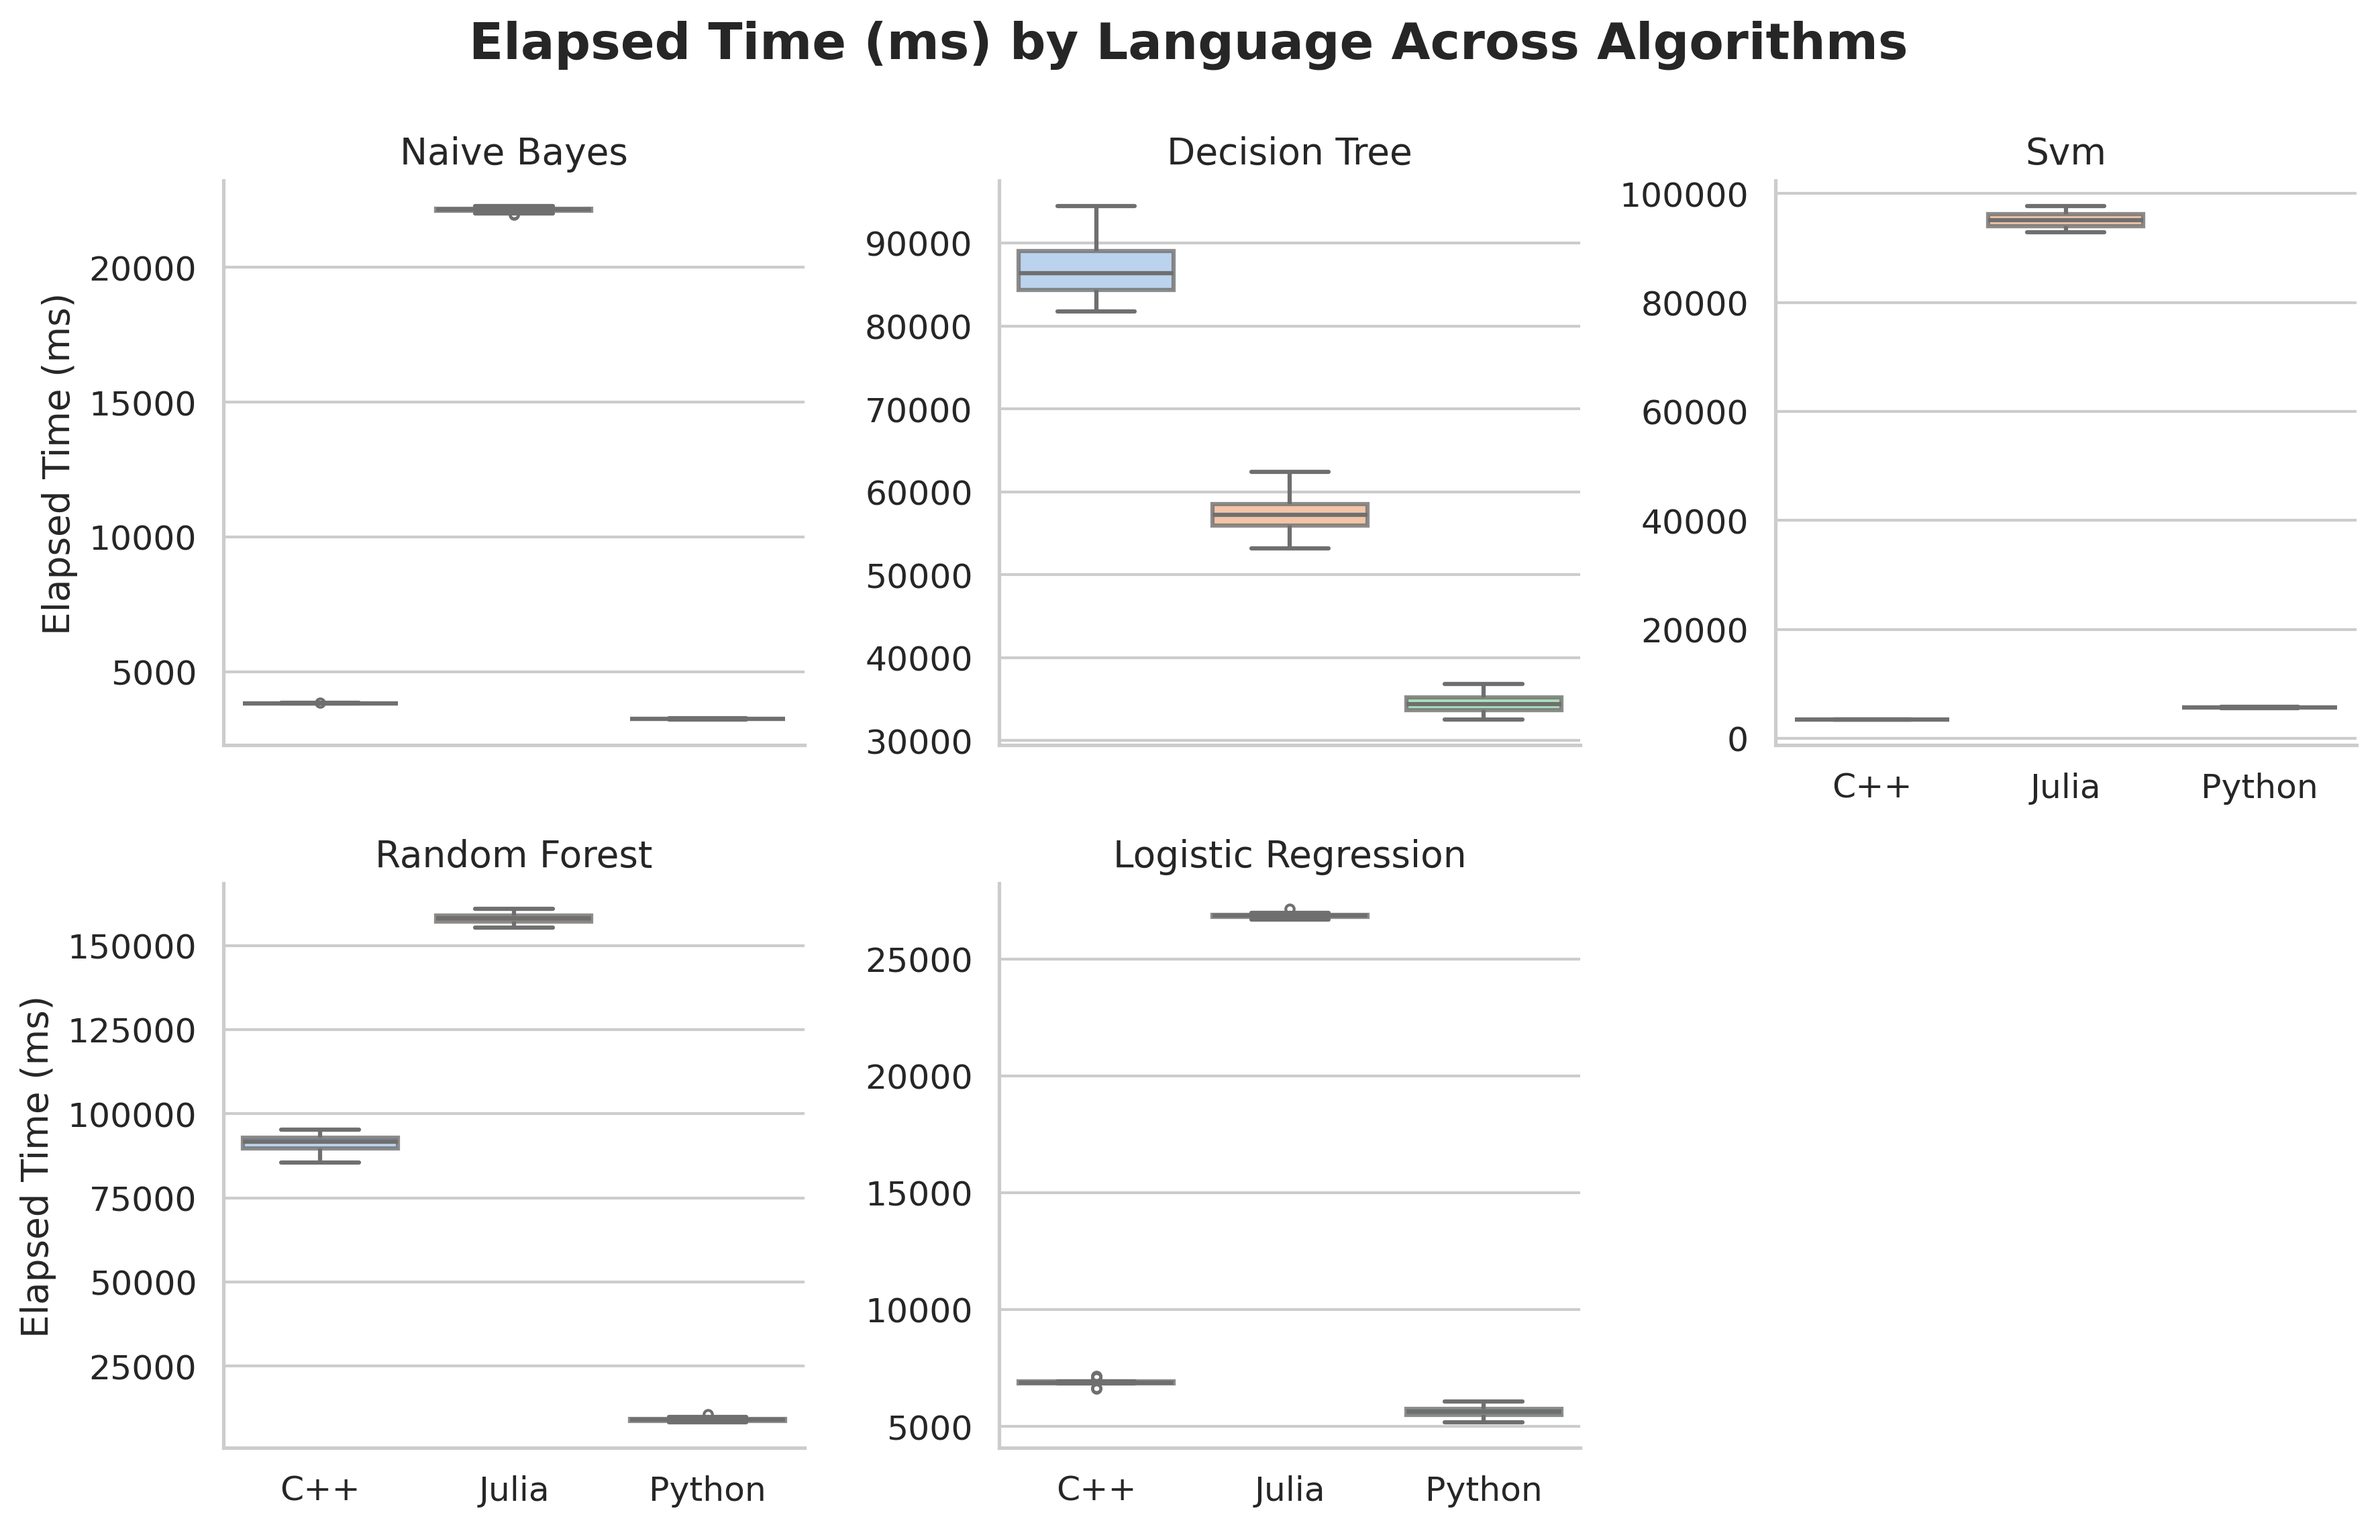
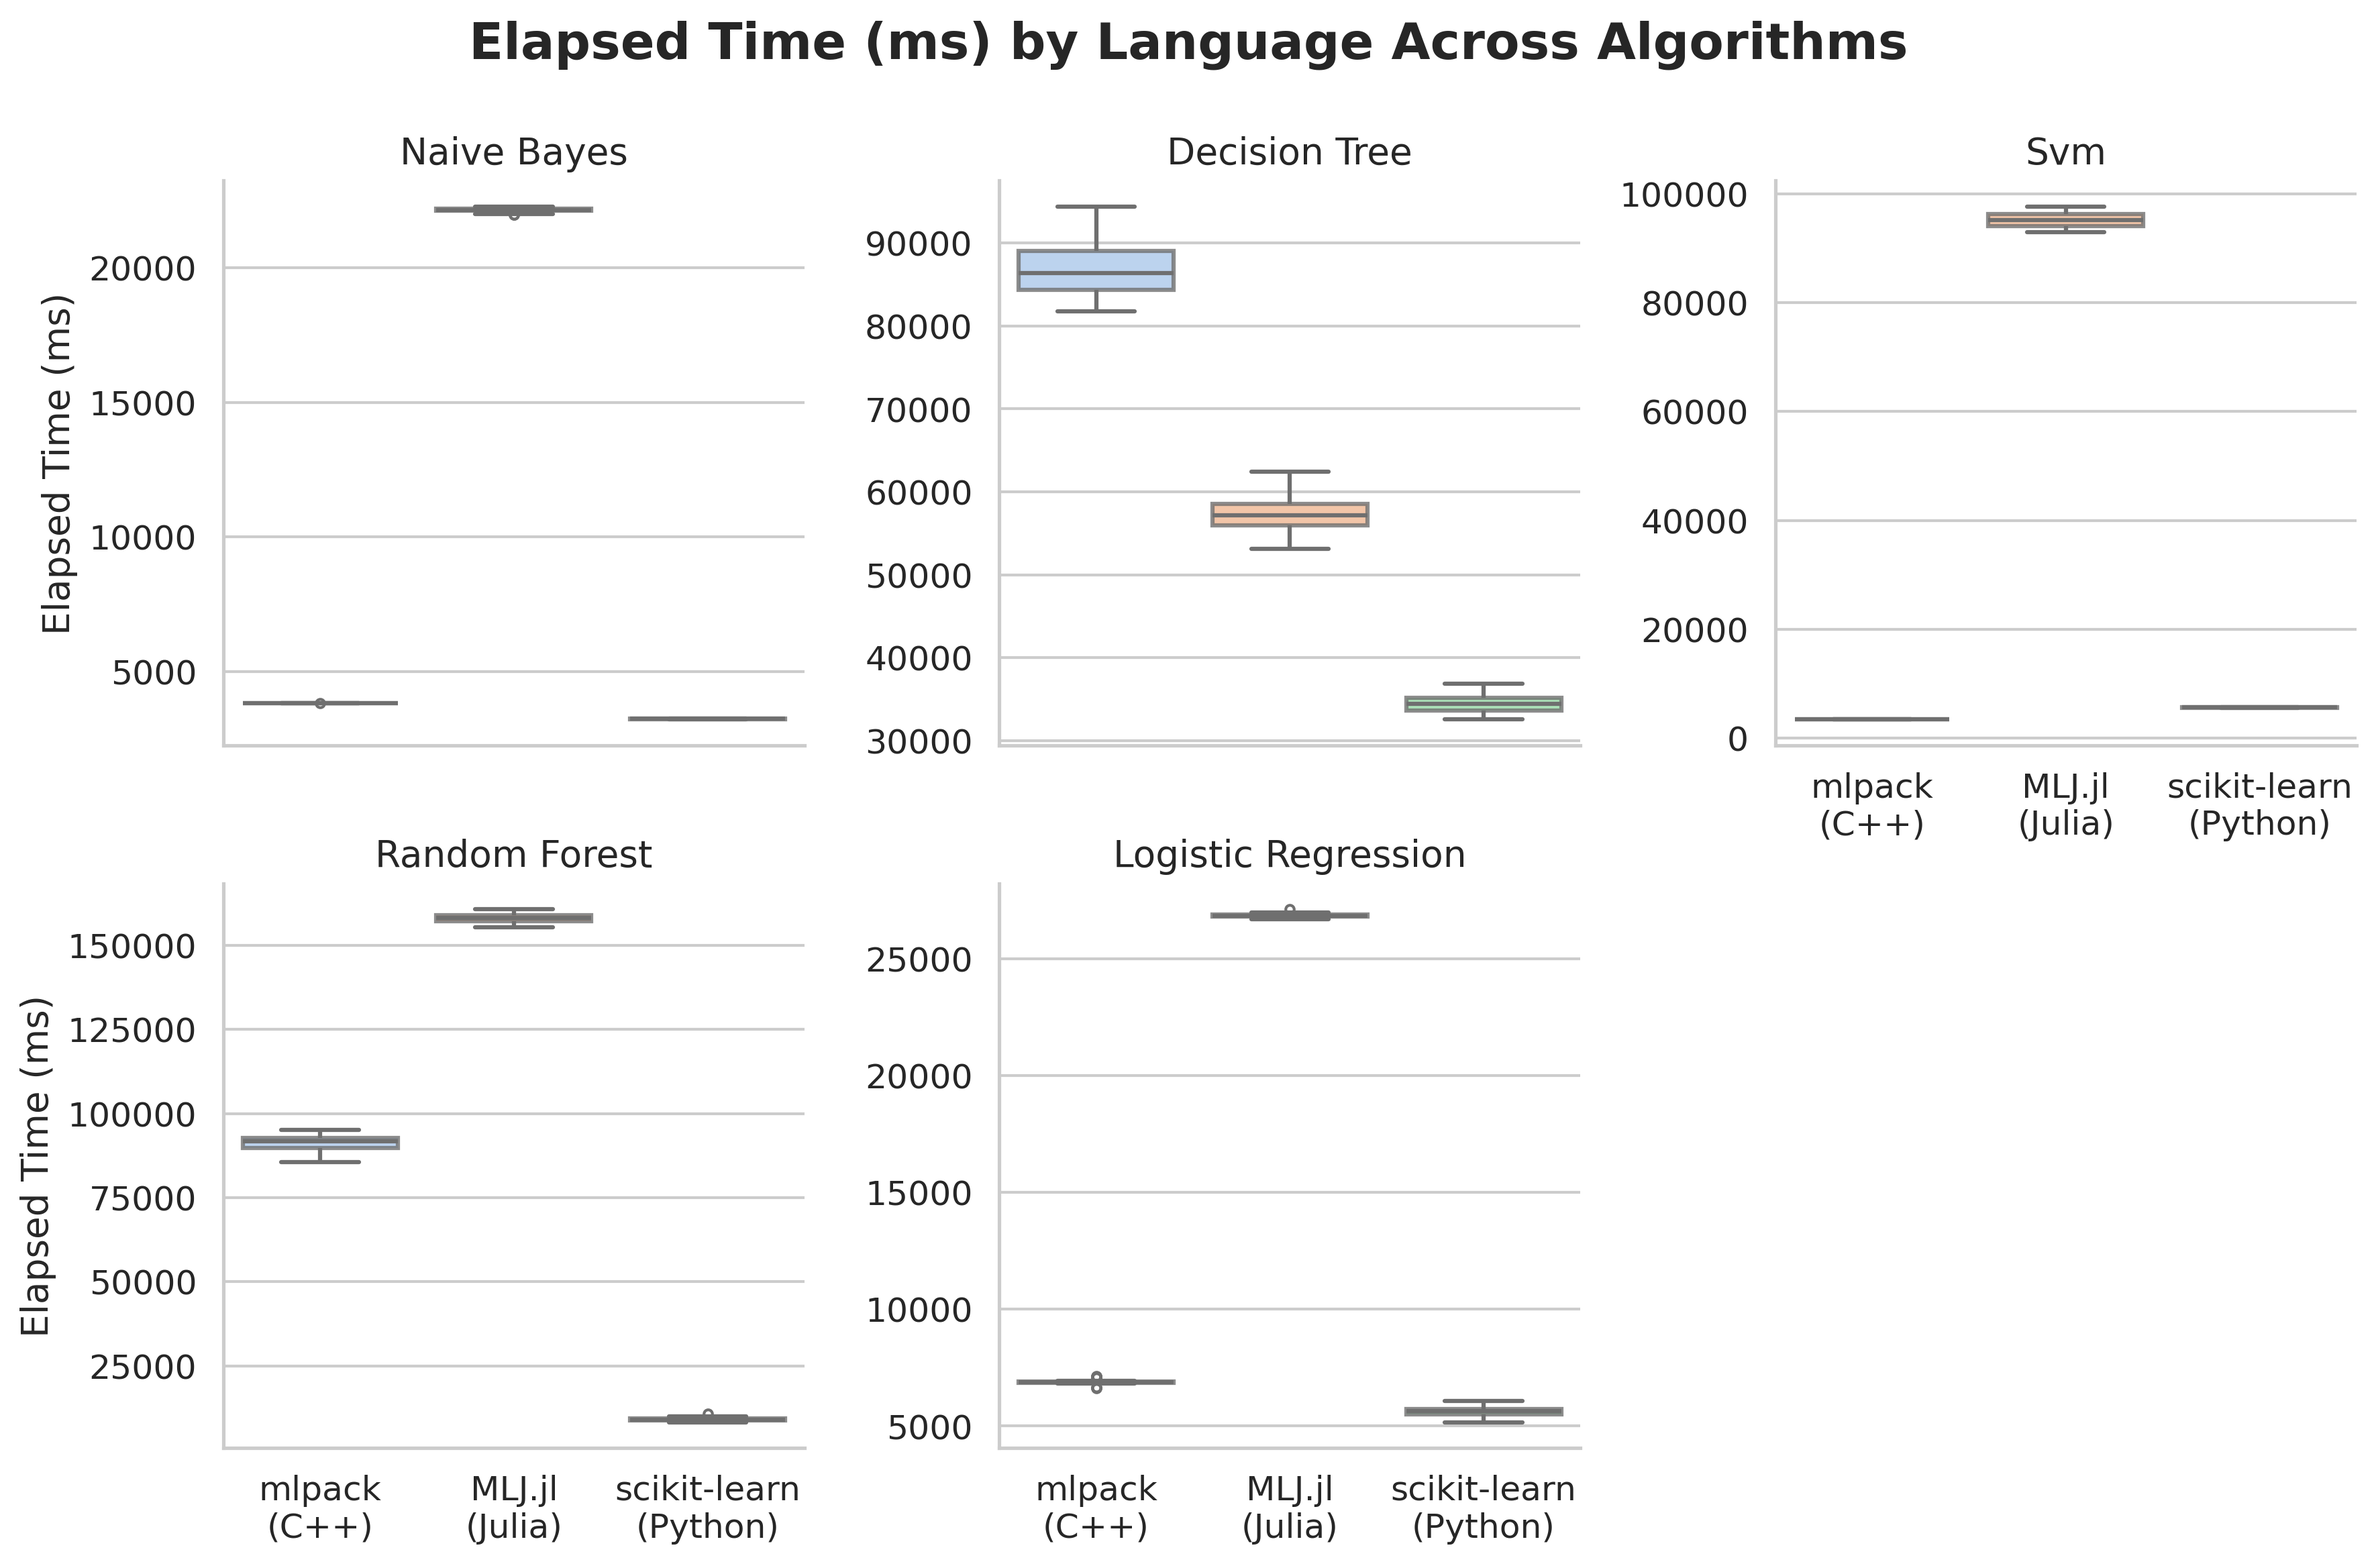
Changes to plots

diff --git a/data_analysis/rq1_plots.py b/data_analysis/rq1_plots.py
@@ -48,7 +48,7 @@ for metric in metrics:
 
     g.set_titles("{col_name}")
     g.set_axis_labels("", metric_labels[metric])
-    g.set_xticklabels(["C++", "Julia", "Python"])
+    g.set_xticklabels(["mlpack\n(C++)", "MLJ.jl\n(Julia)", "scikit-learn\n(Python)"])
 
 
     g.fig.suptitle(f"{metric_labels[metric]} by Language Across Algorithms", fontsize=18, fontweight="bold")
